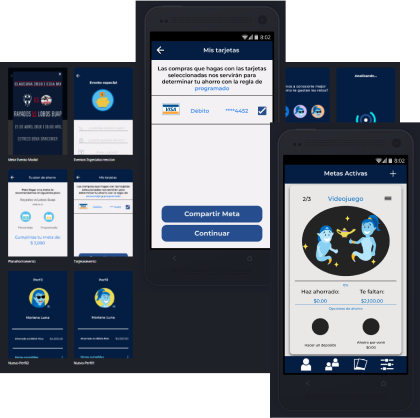
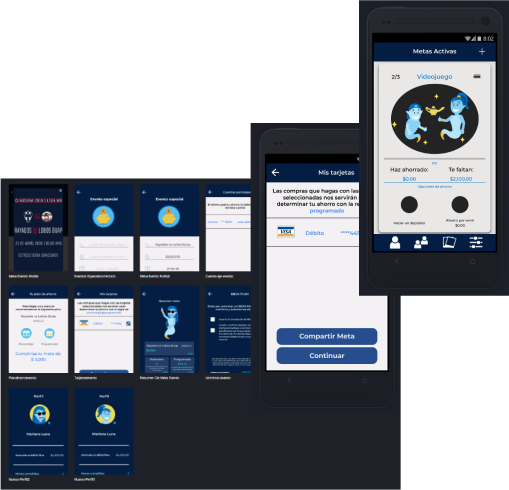
portafolio completo

diff --git a/index.html b/index.html
@@ -40,7 +40,7 @@
       <div id="mainmenu" class="">
         <div class="row">
           <div class="menu mx-auto" class="col-md-12">
-            <span class="sobre_mi" data-name="sobre_mi">Sobre mí</span>
+            <span class="sobre_mi" data-name="sobre_mi">Acerca de mí</span>
             <span class="portafolio" data-name="portafolio">Portafolio</span>
             <span class="contacto" data-name="contacto">Contacto</span>
           </div>
@@ -68,9 +68,9 @@
                         <a href="https://github.com/Samahara/twitter-v2" target="_blank" class="buttongithub"><i class="fab fa-github"></i> Repositorio Github</a>
                         <a href="https://samahara.github.io/twitter-v2/" target="_blank" class="buttonshow"><i class="fas fa-desktop"></i> Muestra</a>
                       </div>
-                      <div class="col-md-12 imageninfo">
+                      <!-- <div class="col-md-12 imageninfo">
                         <img class="img-fluid" src="assets/images/twitter.png" alt="twitter muestra">
-                      </div>
+                      </div> -->
                     </div>
                     <div id="infofoodmap" class="col-md-12">
                       <p>Foodmap es una aplicación para encontrar información sobre restaurantes, contiene un buscador el cual te ayuda a filtrar los restaurantes por tipo de comida.</p>
@@ -82,9 +82,9 @@
                         <a href="https://github.com/Samahara/foodmap" target="_blank" class="buttongithub"><i class="fab fa-github"></i> Repositorio Github</a>
                         <a href="https://samahara.github.io/foodmap/" target="_blank" class="buttonshow"><i class="fas fa-desktop"></i> Muestra</a>
                       </div>
-                      <div class="col-md-12 imageninfo">
+                      <!-- <div class="col-md-12 imageninfo">
                         <img class="img-fluid" src="assets/images/foodmap.png" alt="foodmap muestra">
-                      </div>
+                      </div> -->
                     </div>
                     <div id="infobbvaplan" class="col-md-12">
                       <p>BBVA Plan es una aplicación que te ayuda a crear metas de ahorro personalizado, escogiendo reglas de ahorro a tu gusto de manera gratuita y sin comisiones.</p>
@@ -97,9 +97,9 @@
                         <a href="https://github.com/Samahara/BBVAPlanCobraUnit" target="_blank" class="buttongithub"><i class="fab fa-github"></i> Repositorio Github</a>
                         <a href="https://invis.io/M7GS95C9SCA" target="_blank" class="buttonshow"><i class="fas fa-desktop"></i> Muestra</a>
                       </div>
-                      <div class="col-md-12 imageninfo">
+                      <!-- <div class="col-md-12 imageninfo">
                         <img class="img-fluid" src="assets/images/bbvaplan.png" alt="bbvaplan muestra">
-                      </div>
+                      </div> -->
                     </div>
                   </div>
                 </div>
@@ -115,11 +115,11 @@
                   <i class="fas fa-mobile-alt"></i>
                 </div>
                 <div class="col-md-11">
-                  <a>Correo samaharafernandez@gmail.com</a>
-                  <a href="https://www.linkedin.com/in/samaharafernandez/" target="_blank">LinkedIn /samaharafernandez</a>
-                  <a href="https://app.talento.laboratoria.la/profile/RJReeXYQhiUDTIc6M3xkhpCWZtz1" target="_blank">Laboratoria CDMX/UXDesigner/Samahara Fernández</a>
-                  <a href="https://github.com/Samahara" target="_blank">Github /Samahara</a>
-                  <a>Teléfono (55) 83954268 </a>
+                  <a>samaharafernandez@gmail.com</a>
+                  <a class="link" href="https://www.linkedin.com/in/samaharafernandez/" target="_blank">samaharafernandez</a>
+                  <a class="link" href="https://app.talento.laboratoria.la/" target="_blank">CDMX / UX Designer / Samahara Fernández</a>
+                  <a class="link" href="https://github.com/Samahara" target="_blank">Samahara</a>
+                  <a>(55) 83954268 </a>
                 </div>
               </div>
             </div>

diff --git a/css/main.css b/css/main.css
@@ -17,6 +17,11 @@
   text-decoration: none;
 }
 
+#contacto > div > div > a.link:hover {
+  color: #EB5757;
+  text-decoration: underline;
+}
+
 #contacto > div > div > i {
   color: white;
   display: block;
@@ -39,6 +44,28 @@
 #infoportafolio {
   color: white;
   height: 75vh;
+}
+
+#infobbvaplan {
+  background-image: url(../assets/images/bbvaplan.png);
+  background-repeat: no-repeat;
+  background-position: 100% 90%;
+  height: 80vh;
+}
+
+#infofoodmap {
+  background-image: url(../assets/images/foodmap.png);
+  background-repeat: no-repeat;
+  background-position: 100% 100%;
+  height: 80vh;
+}
+
+#infotwitter {
+  background-image: url(../assets/images/twitter.png);
+  background-repeat: no-repeat;
+  background-size: contain;
+  background-position: 100% 80%;
+  height: 80vh;
 }
 
 #infotwitter > p, #infofoodmap > p,

diff --git a/js/app.js b/js/app.js
@@ -9,7 +9,7 @@ $('#enterbutton').click(gomainmenu)
 
 function gomainmenu() {
   $('#logohome').hide("fast");
-  $('#mainmenu').show("fast");
+  $('#mainmenu').show("slow");
   $('#sobre_mi').show("fast");
   $('.sobre_mi').addClass("sobre_mion");
 }
